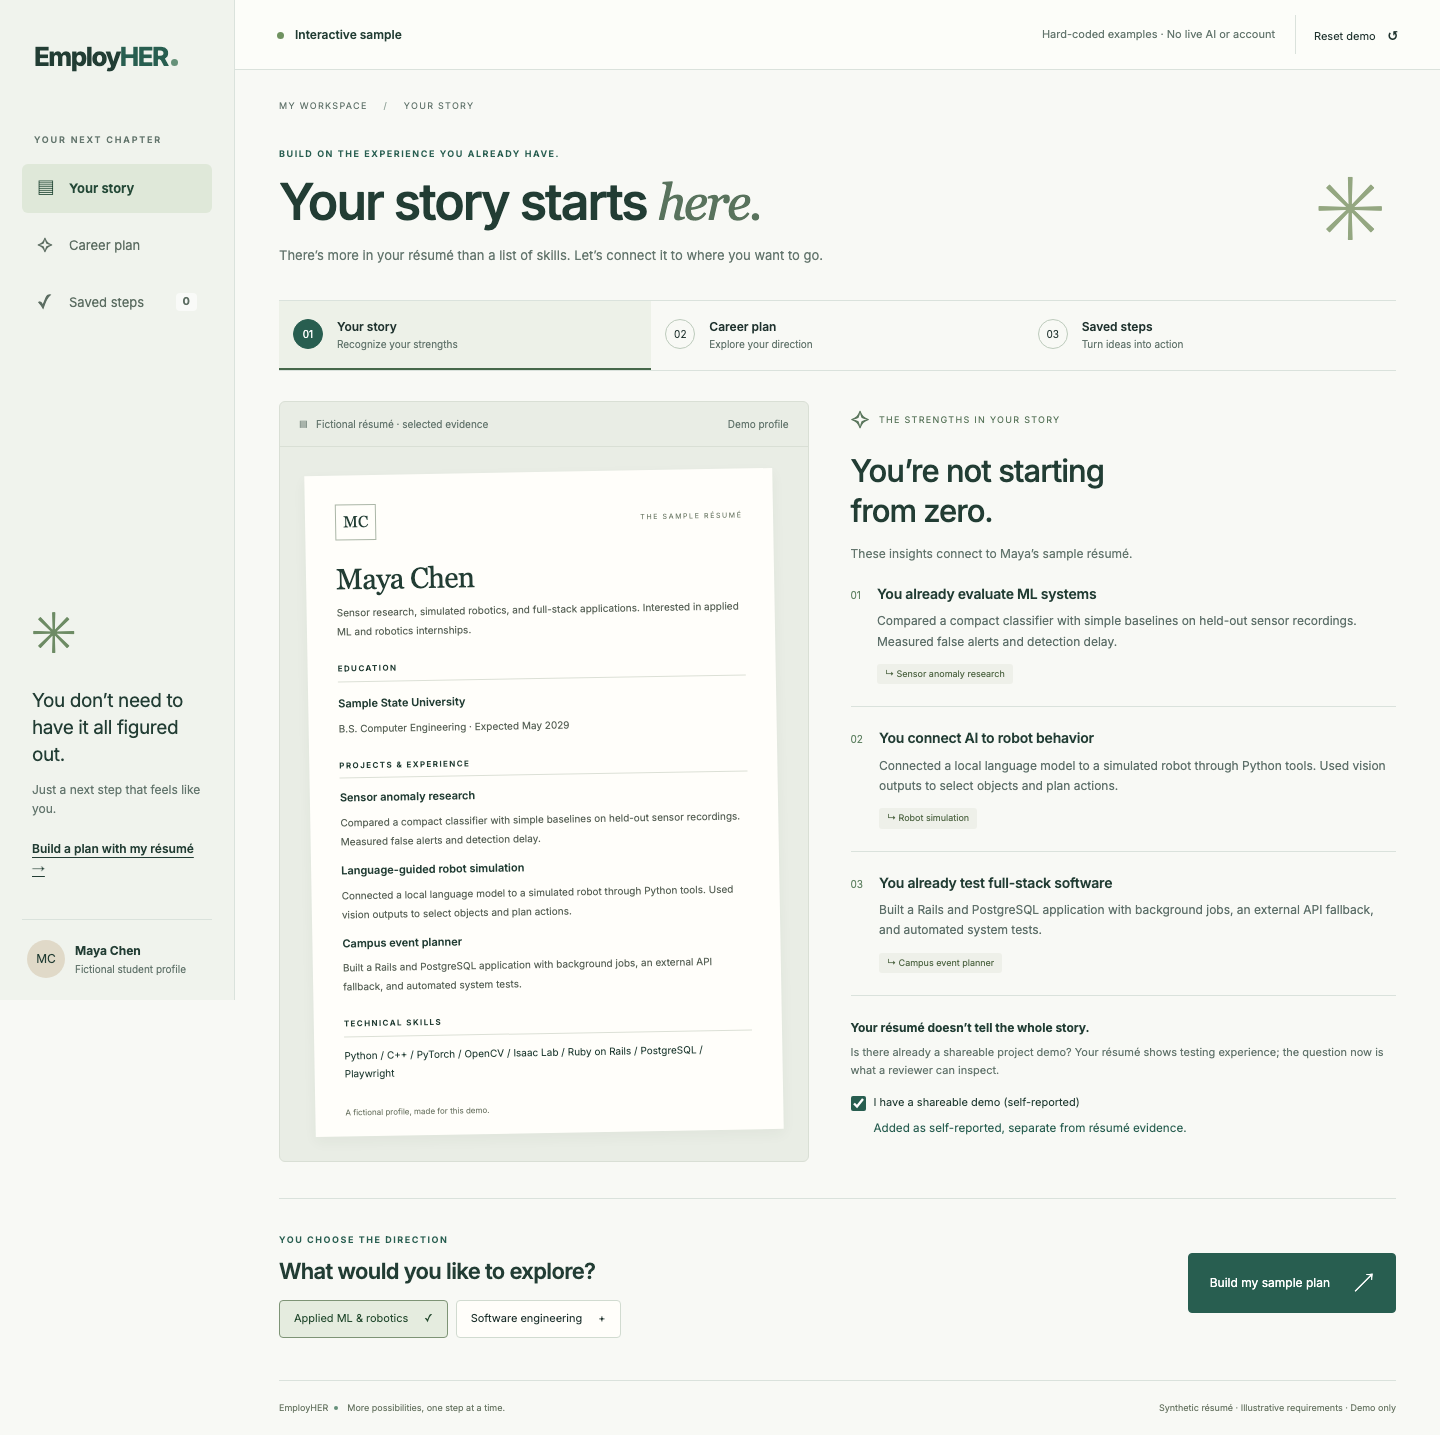
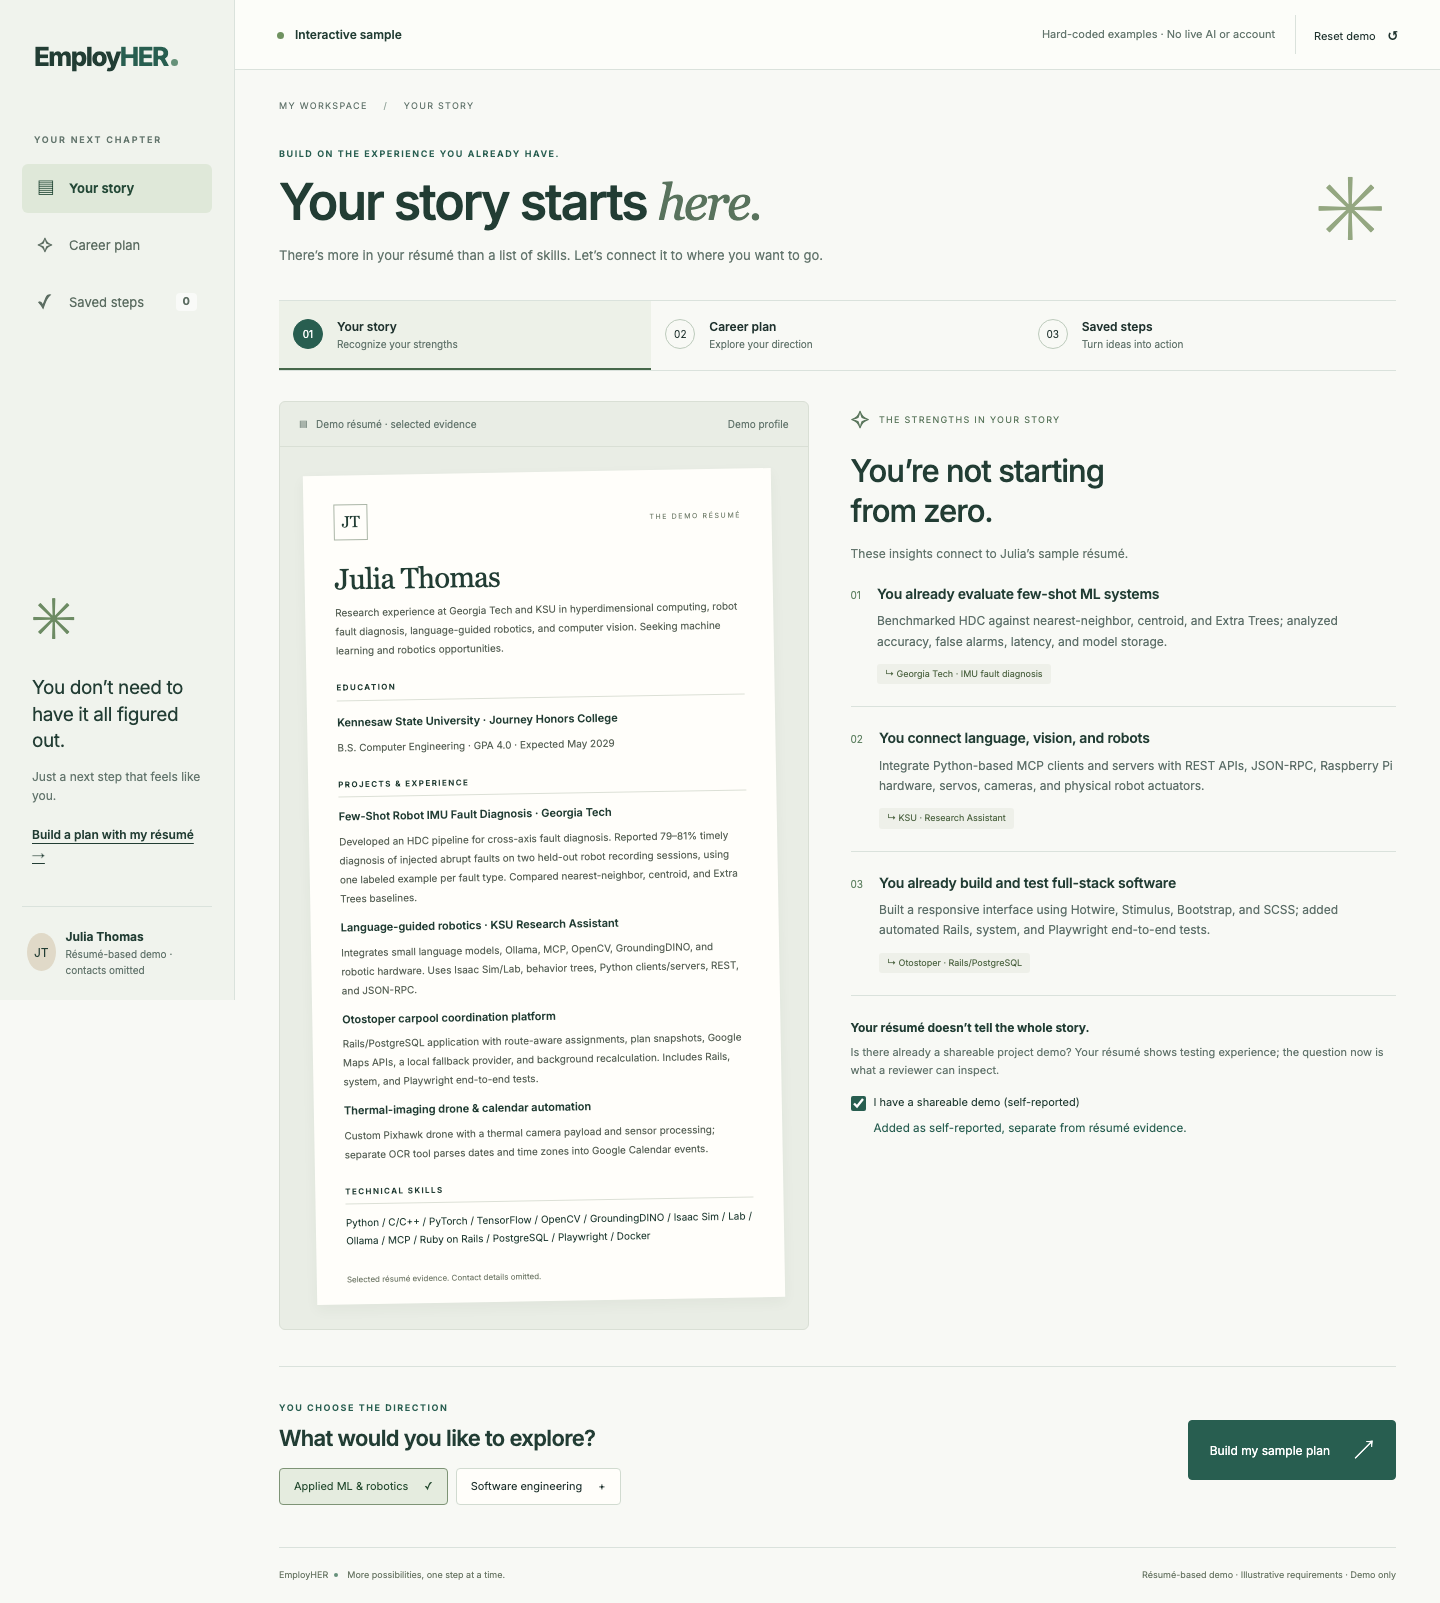
Use approved Julia evidence in the public judge demo

diff --git a/app/demo/demo-data.ts b/app/demo/demo-data.ts
@@ -32,69 +32,77 @@ export type DemoAction = {
   resource: { title: string; url: string; use: string };
 };
 
-// This public fixture is fictional. A provided résumé can be loaded locally
-// through the server-only opt-in described in docs/judges-demo.md.
+// Operator-approved public demo evidence. Contact details and the source PDF are excluded.
 export const sampleProfile: DemoProfile = {
-  id: "maya-v2",
-  name: "Maya Chen",
-  initials: "MC",
+  id: "julia-demo-v1",
+  name: "Julia Thomas",
+  initials: "JT",
   local: false,
-  degree: "B.S. Computer Engineering",
-  school: "Sample State University",
+  degree: "B.S. Computer Engineering · GPA 4.0",
+  school: "Kennesaw State University · Journey Honors College",
   graduation: "May 2029",
   summary:
-    "Sensor research, simulated robotics, and full-stack applications. Interested in applied ML and robotics internships.",
+    "Research experience at Georgia Tech and KSU in hyperdimensional computing, robot fault diagnosis, language-guided robotics, and computer vision. Seeking machine learning and robotics opportunities.",
   skills: [
     "Python",
-    "C++",
+    "C/C++",
     "PyTorch",
+    "TensorFlow",
     "OpenCV",
-    "Isaac Lab",
+    "GroundingDINO",
+    "Isaac Sim / Lab",
+    "Ollama / MCP",
     "Ruby on Rails",
     "PostgreSQL",
     "Playwright",
+    "Docker",
   ],
   projects: [
     {
-      title: "Sensor anomaly research",
+      title: "Few-Shot Robot IMU Fault Diagnosis · Georgia Tech",
       description:
-        "Compared a compact classifier with simple baselines on held-out sensor recordings. Measured false alerts and detection delay.",
+        "Developed an HDC pipeline for cross-axis fault diagnosis. Reported 79–81% timely diagnosis of injected abrupt faults on two held-out robot recording sessions, using one labeled example per fault type. Compared nearest-neighbor, centroid, and Extra Trees baselines.",
     },
     {
-      title: "Language-guided robot simulation",
+      title: "Language-guided robotics · KSU Research Assistant",
       description:
-        "Connected a local language model to a simulated robot through Python tools. Used vision outputs to select objects and plan actions.",
+        "Integrates small language models, Ollama, MCP, OpenCV, GroundingDINO, and robotic hardware. Uses Isaac Sim/Lab, behavior trees, Python clients/servers, REST, and JSON-RPC.",
     },
     {
-      title: "Campus event planner",
+      title: "Otostoper carpool coordination platform",
       description:
-        "Built a Rails and PostgreSQL application with background jobs, an external API fallback, and automated system tests.",
+        "Rails/PostgreSQL application with route-aware assignments, plan snapshots, Google Maps APIs, a local fallback provider, and background recalculation. Includes Rails, system, and Playwright end-to-end tests.",
+    },
+    {
+      title: "Thermal-imaging drone & calendar automation",
+      description:
+        "Custom Pixhawk drone with a thermal camera payload and sensor processing; separate OCR tool parses dates and time zones into Google Calendar events.",
     },
   ],
   evidence: [
     {
-      title: "You already evaluate ML systems",
+      title: "You already evaluate few-shot ML systems",
       detail:
-        "Compared a compact classifier with simple baselines on held-out sensor recordings. Measured false alerts and detection delay.",
-      tag: "Sensor anomaly research",
+        "Benchmarked HDC against nearest-neighbor, centroid, and Extra Trees; analyzed accuracy, false alarms, latency, and model storage.",
+      tag: "Georgia Tech · IMU fault diagnosis",
     },
     {
-      title: "You connect AI to robot behavior",
+      title: "You connect language, vision, and robots",
       detail:
-        "Connected a local language model to a simulated robot through Python tools. Used vision outputs to select objects and plan actions.",
-      tag: "Robot simulation",
+        "Integrate Python-based MCP clients and servers with REST APIs, JSON-RPC, Raspberry Pi hardware, servos, cameras, and physical robot actuators.",
+      tag: "KSU · Research Assistant",
     },
     {
-      title: "You already test full-stack software",
+      title: "You already build and test full-stack software",
       detail:
-        "Built a Rails and PostgreSQL application with background jobs, an external API fallback, and automated system tests.",
-      tag: "Campus event planner",
+        "Built a responsive interface using Hotwire, Stimulus, Bootstrap, and SCSS; added automated Rails, system, and Playwright end-to-end tests.",
+      tag: "Otostoper · Rails/PostgreSQL",
     },
   ],
   researchBullet:
-    "Compared a compact sensor-anomaly classifier with simple baselines on held-out recordings, measuring false alerts and detection delay.",
+    "Developed a few-shot HDC pipeline for cross-axis robot IMU fault diagnosis; achieved 79–81% timely diagnosis of injected abrupt faults across two held-out recording sessions using one labeled example per fault type.",
   softwareBullet:
-    "Built a Rails/PostgreSQL event-planning application with background jobs, external API fallback, and automated system tests.",
+    "Built a Rails/PostgreSQL carpool coordination platform with route-aware assignments, plan snapshots, Google Maps API integration and fallback, background recalculation, and Rails/system/Playwright tests.",
 };
 
 const validationGuide = {

diff --git a/app/demo/judges-demo.tsx b/app/demo/judges-demo.tsx
@@ -144,7 +144,7 @@ export function JudgesDemo({ profile }: { profile: DemoProfile }) {
       "EmployHER — my next steps",
       profile.local
         ? "Local résumé preview. Recommendations are curated examples."
-        : "Synthetic demo profile. Recommendations are curated examples.",
+        : "Résumé-based demo profile. Recommendations are curated examples.",
       ...chosen.map((action) =>
         [
           action.title,
@@ -226,7 +226,7 @@ export function JudgesDemo({ profile }: { profile: DemoProfile }) {
             <small>
               {profile.local
                 ? "Provided résumé · local only"
-                : "Fictional student profile"}
+                : "Résumé-based demo · contacts omitted"}
             </small>
           </div>
         </div>
@@ -331,7 +331,7 @@ export function JudgesDemo({ profile }: { profile: DemoProfile }) {
                       ▤ &nbsp;{" "}
                       {profile.local
                         ? "Provided résumé · selected evidence"
-                        : "Fictional résumé · selected evidence"}
+                        : "Demo résumé · selected evidence"}
                     </span>
                     <span>
                       {profile.local ? "Local preview" : "Demo profile"}
@@ -341,9 +341,7 @@ export function JudgesDemo({ profile }: { profile: DemoProfile }) {
                     <div className="jd-paper-top">
                       <span>{profile.initials}</span>
                       <small>
-                        {profile.local
-                          ? "PROVIDED RÉSUMÉ"
-                          : "THE SAMPLE RÉSUMÉ"}
+                        {profile.local ? "PROVIDED RÉSUMÉ" : "THE DEMO RÉSUMÉ"}
                       </small>
                     </div>
                     <h2>{profile.name}</h2>
@@ -367,7 +365,7 @@ export function JudgesDemo({ profile }: { profile: DemoProfile }) {
                     <div className="jd-paper-foot">
                       {profile.local
                         ? "Selected résumé evidence. Contact details omitted."
-                        : "A fictional profile, made for this demo."}
+                        : "Selected résumé evidence. Contact details omitted."}
                     </div>
                   </div>
                 </section>
@@ -780,7 +778,7 @@ export function JudgesDemo({ profile }: { profile: DemoProfile }) {
             <span>
               {profile.local
                 ? "Provided résumé · Local preview"
-                : "Synthetic résumé"}{" "}
+                : "Résumé-based demo"}{" "}
               · Illustrative requirements · Demo only
             </span>
           </footer>

diff --git a/tests/judges-demo/demo.spec.ts b/tests/judges-demo/demo.spec.ts
@@ -10,6 +10,15 @@ test("judge walkthrough stays local, traces evidence, persists progress, and res
   });
   await page.goto("/demo");
   await expect(
+    page.getByRole("heading", { name: "Julia Thomas", exact: true }),
+  ).toBeVisible();
+  await expect(
+    page.getByText("Selected résumé evidence. Contact details omitted."),
+  ).toBeVisible();
+  expect(await page.locator(".jd-paper").innerText()).not.toMatch(
+    /[A-Z0-9._%+-]+@[A-Z0-9.-]+\.[A-Z]{2,}|\b\d{3}[-. ]\d{3}[-. ]\d{4}\b/i,
+  );
+  await expect(
     page.getByRole("heading", { name: "Your story starts here." }),
   ).toBeVisible();
   await page

diff --git a/docs/judges-demo.md b/docs/judges-demo.md
@@ -2,8 +2,10 @@
 
 `/demo` is a hard-coded product walkthrough on the scrolling résumé site. It needs
 no sign-in, API keys, database, personal uploads, or provider calls. The committed
-profile is fictional; role descriptions are illustrative and recommendations are
-curated examples, not live Gemini output.
+profile uses Julia Thomas’s selected résumé evidence, explicitly approved by the
+operator for publication. Phone numbers, email addresses, contact links, and the
+source PDF are excluded. Role descriptions are illustrative and recommendations
+are curated examples, not live Gemini output.
 
 ## Run and present
 
@@ -43,7 +45,7 @@ EMPLOYHER_DEMO_PROFILE=.local/judges-profile.json npm run dev -- --port 3131
 ```
 
 Only loopback Host values are accepted for this override; Vercel always uses the
-fictional fixture. Do not configure the override on other hosted servers. The route
+public demo profile. Do not configure the override on other hosted servers. The route
 is dynamic so a local profile is not embedded into build-time static HTML. The
 file is read at request time, validated, and never sent to an AI provider.
 The browser receives the selected profile for presentation; anyone with access to
@@ -54,8 +56,9 @@ The schema is in `app/demo/load-profile.ts`; use `sampleProfile` in
 unique `id`. Include at least three projects and exactly three evidence groups in
 this order: research, robotics integration, full-stack software. These are curated
 scenarios, not a general-purpose résumé parser. Preserve original conditions and
-denominators in any résumé metric. A real profile and its screenshots must not be
-committed to the public PR. Unset the variable to return to the fictional profile.
+denominators in any résumé metric. Additional private profiles and their screenshots must not be
+committed without explicit publication authorization. The operator authorized
+the selected Julia evidence used by the default demo on September 19, 2026. Unset the variable to return to the public demo profile.
 
 ## Verification
 
@@ -64,7 +67,7 @@ Run `npm run test:demo`, or `npm run test:demo -- --ui`. Playwright scenarios in
 and work-plan dialogs, task persistence, detailed plan downloads, field switching,
 the three-step limit, completion, reset/cancel, keyboard access, mobile layout,
 unavailable storage, and the homepage entry point. The walkthrough asserts no
-`/api/` requests. Public screenshots use the fictional profile only and are written
+`/api/` requests. Public screenshots use the approved public demo profile only and are written
 to `docs/screenshots/judges-demo-*.png`.
 
 Official task references checked September 19, 2026:
